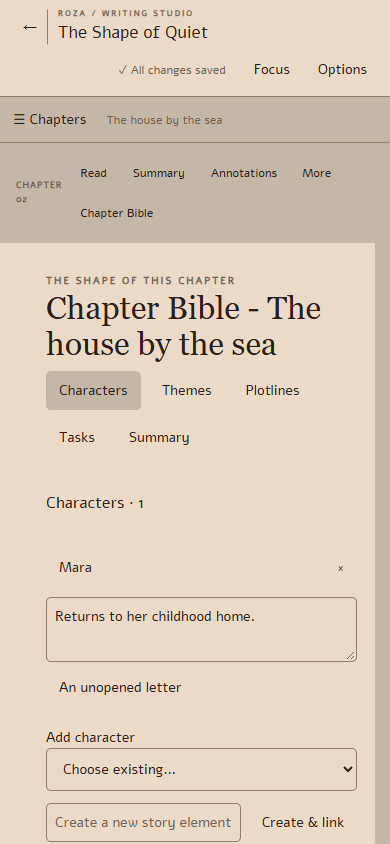
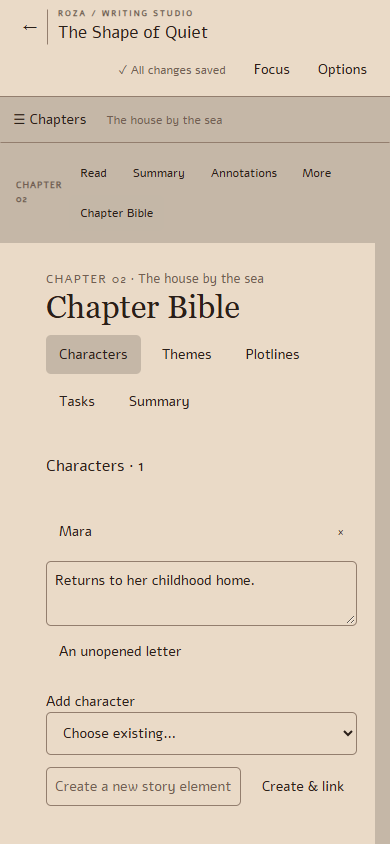
Give Chapter Bible a clear title and quiet chapter context

diff --git a/frontend/src/components/WritingStudio/ChapterPlanning.tsx b/frontend/src/components/WritingStudio/ChapterPlanning.tsx
@@ -169,10 +169,19 @@ export function ChapterPlanning({
     >
       {page ? (
         <>
-          <span className="ws-eyebrow">THE SHAPE OF THIS CHAPTER</span>
-          <h1>
-            Chapter Bible - <bdi>{chapter.name || "Untitled chapter"}</bdi>
-          </h1>
+          <p className="cp-chapter-context">
+            <span>
+              CHAPTER{" "}
+              {String(
+                book.chapters
+                  .filter(c => !c.isArchived)
+                  .findIndex(c => c.id === chapter.id) + 1,
+              ).padStart(2, "0")}
+            </span>
+            <span aria-hidden="true"> · </span>
+            <bdi>{chapter.name || "Untitled chapter"}</bdi>
+          </p>
+          <h1>Chapter Bible</h1>
           <nav className="cp-bible-nav" aria-label="Chapter Bible sections">
             {(
               ["characters", "themes", "plotlines", "tasks", "summary"] as const

diff --git a/frontend/src/components/WritingStudio/chapterPlanning.css b/frontend/src/components/WritingStudio/chapterPlanning.css
@@ -207,3 +207,20 @@
     padding-right: 18px;
   }
 }
+.cp-chapter-context {
+  margin: 0 0 8px;
+  color: var(--ws-muted);
+  font-size: 13px;
+  font-weight: 400;
+  line-height: 1.6;
+  overflow-wrap: anywhere;
+}
+.cp-chapter-context > span:first-child {
+  font-size: 12px;
+  letter-spacing: 0.1em;
+}
+.cp-chapter-bible h1 {
+  margin: 0 0 24px;
+  font-size: clamp(32px, 3vw, 40px);
+  white-space: nowrap;
+}

diff --git a/docs/chapter-planning/README.md b/docs/chapter-planning/README.md
@@ -4,7 +4,7 @@ Branch: `feature/chapter-planning`, based on verified `origin/main` commit `04f0
 
 ## Connected workspaces
 
-In Chapters, the Chapter Bible button immediately after More switches the manuscript page to a chapter workspace with Characters, Themes, Plotlines, Tasks and Summary navigation. Press it again, or choose Read/Summary/Annotations, to return to writing. Chapter Preview retains its collapsible Chapter Planning inspector. Both views edit the same shared records. The heading is Chapter Bible - [Chapter Title], the page matches manuscript editor width, and save state is shown only in the app header. Summary editing preserves rich text; character and plotline contribution notes are plain text stored on the chapter association.
+In Chapters, the Chapter Bible button immediately after More switches the manuscript page to a chapter workspace with Characters, Themes, Plotlines, Tasks and Summary navigation. Press it again, or choose Read/Summary/Annotations, to return to writing. Chapter Preview retains its collapsible Chapter Planning inspector. Both views edit the same shared records. A muted chapter number and name sit above the Chapter Bible heading, the page matches manuscript editor width, and save state is shown only in the app header. Summary editing preserves rich text; character and plotline contribution notes are plain text stored on the chapter association.
 
 Tasks are existing book task-board cards, extended with optional `chapterId` and `completed`. The inspector creates, associates, renames, completes, reopens and deletes these same cards; Open in board opens the original card and list. The board supports chapter assignment/removal and a chapter filter. Completion is explicit, independent of editable board list names.
 
